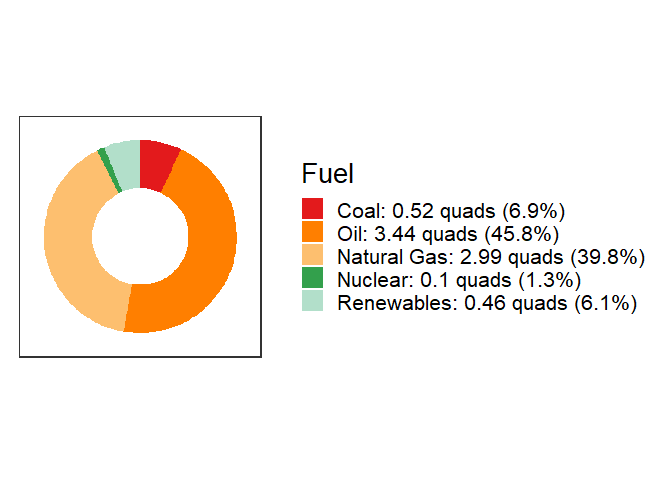
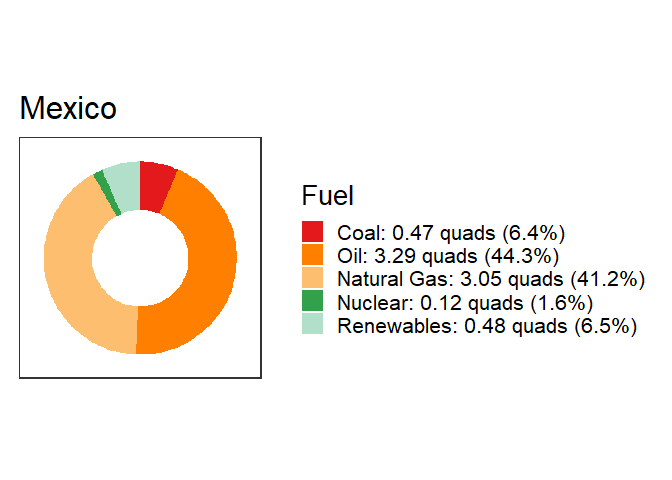
Updated shape of tibbles.

diff --git a/README.md b/README.md
@@ -47,12 +47,12 @@ mexico_data %>% filter(year >= 1965) %>%
     ## # A tibble: 6 x 10
     ##   region  year      P     G     E     F     g     e     f    ef
     ##   <ord>  <int>  <dbl> <dbl> <dbl> <dbl> <dbl> <dbl> <dbl> <dbl>
-    ## 1 Mexico  1965 0.0446 0.207 0.991  62.1  4.64  4.79  62.7  300.
-    ## 2 Mexico  1966 0.0460 0.220 1.05   65.0  4.77  4.78  62.0  296.
-    ## 3 Mexico  1967 0.0474 0.233 1.07   66.6  4.90  4.59  62.4  287.
-    ## 4 Mexico  1968 0.0489 0.254 1.16   72.2  5.20  4.57  62.1  284.
-    ## 5 Mexico  1969 0.0504 0.263 1.28   79.1  5.22  4.86  61.9  301.
-    ## 6 Mexico  1970 0.0520 0.280 1.36   84.2  5.39  4.86  61.8  300.
+    ## 1 Mexico  1965 0.0441 0.210 0.991  62.1  4.76  4.72  62.7  296.
+    ## 2 Mexico  1966 0.0455 0.223 1.05   65.0  4.90  4.70  62.0  292.
+    ## 3 Mexico  1967 0.0470 0.236 1.07   66.6  5.03  4.53  62.4  282.
+    ## 4 Mexico  1968 0.0484 0.258 1.16   72.2  5.33  4.50  62.1  279.
+    ## 5 Mexico  1969 0.0499 0.267 1.28   79.1  5.35  4.78  61.9  296.
+    ## 6 Mexico  1970 0.0515 0.284 1.36   84.2  5.52  4.79  61.8  296.
 
 -   `project_top_down()`: Project future population, GDP, energy use,
     and emissions. Example:
@@ -65,7 +65,7 @@ mexico_2050
     ## # A tibble: 1 x 10
     ##   region  year     P     G     g     E     F     e     f    ef
     ##   <chr>  <dbl> <dbl> <dbl> <dbl> <dbl> <dbl> <dbl> <dbl> <dbl>
-    ## 1 Mexico  2050 0.163  2.57  15.8  9.99  581.  3.88  58.2  226.
+    ## 1 Mexico  2050 0.163  2.57  15.8  9.99  581.  3.89  58.2  226.
 
 -   `plot_kaya`: Plot trends in Kaya variables for a given region or
     country. Example:
@@ -79,15 +79,14 @@ mexico_mix = get_fuel_mix("Mexico")
 mexico_mix
 ```
 
-    ## # A tibble: 6 x 7
-    ##   region region_code geography  year fuel         quads   pct
-    ##   <chr>  <chr>       <chr>     <int> <ord>        <dbl> <dbl>
-    ## 1 Mexico MEX         nation     2017 Oil         3.44   45.8 
-    ## 2 Mexico MEX         nation     2017 Natural Gas 2.99   39.8 
-    ## 3 Mexico MEX         nation     2017 Coal        0.520   6.92
-    ## 4 Mexico MEX         nation     2017 Nuclear     0.0977  1.30
-    ## 5 Mexico MEX         nation     2017 Hydro       0.285   3.79
-    ## 6 Mexico MEX         nation     2017 Renewables  0.176   2.34
+    ## # A tibble: 5 x 5
+    ##   region  year fuel        quads   frac
+    ##   <chr>  <int> <ord>       <dbl>  <dbl>
+    ## 1 Mexico  2018 Coal        0.472 0.0637
+    ## 2 Mexico  2018 Oil         3.29  0.443 
+    ## 3 Mexico  2018 Natural Gas 3.05  0.412 
+    ## 4 Mexico  2018 Nuclear     0.122 0.0165
+    ## 5 Mexico  2018 Renewables  0.483 0.0651
 
 -   `plot_fuel_mix`: Plot the fuel mix in a donut chart
 

diff --git a/LICENSE.md b/LICENSE.md
@@ -1,4 +1,5 @@
 <!-- LICENSE.md is generated from LICENSE.Rmd. Please edit that file -->
+
 The datafsm package for R is licensed under the MIT License.
 
 > Copyright (c) 2017-2019: Jonathan Gilligan:
